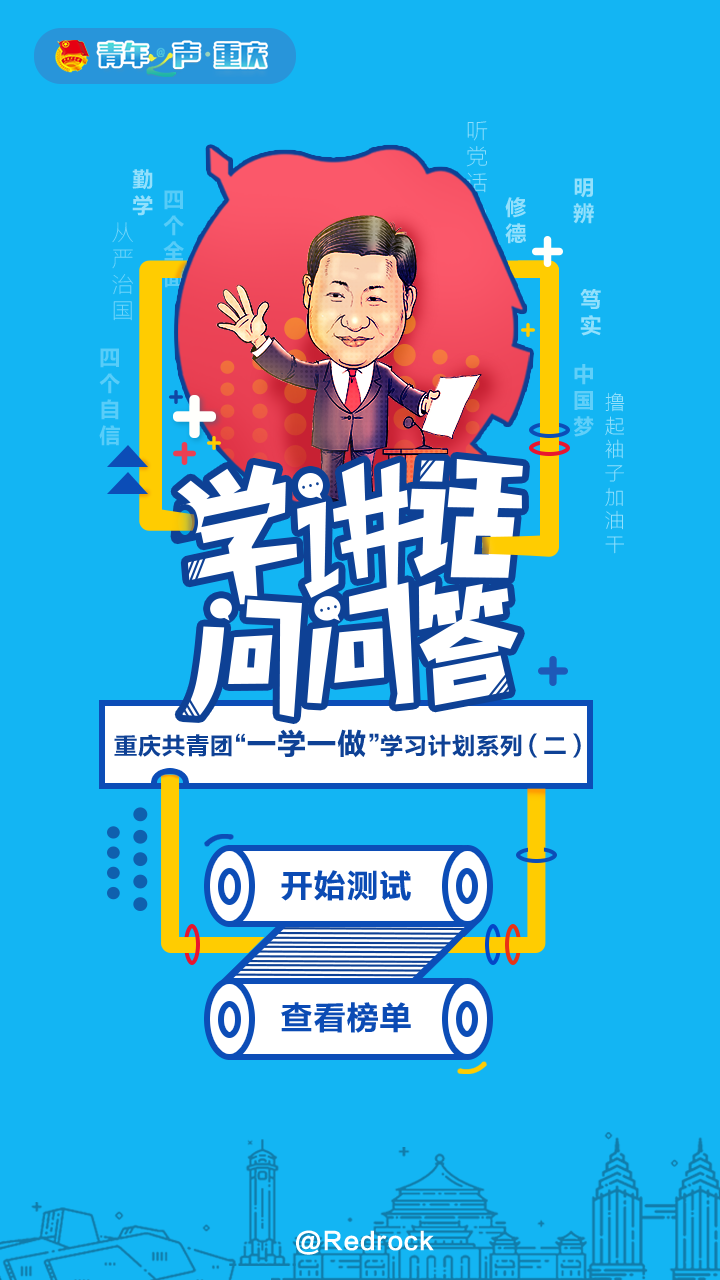
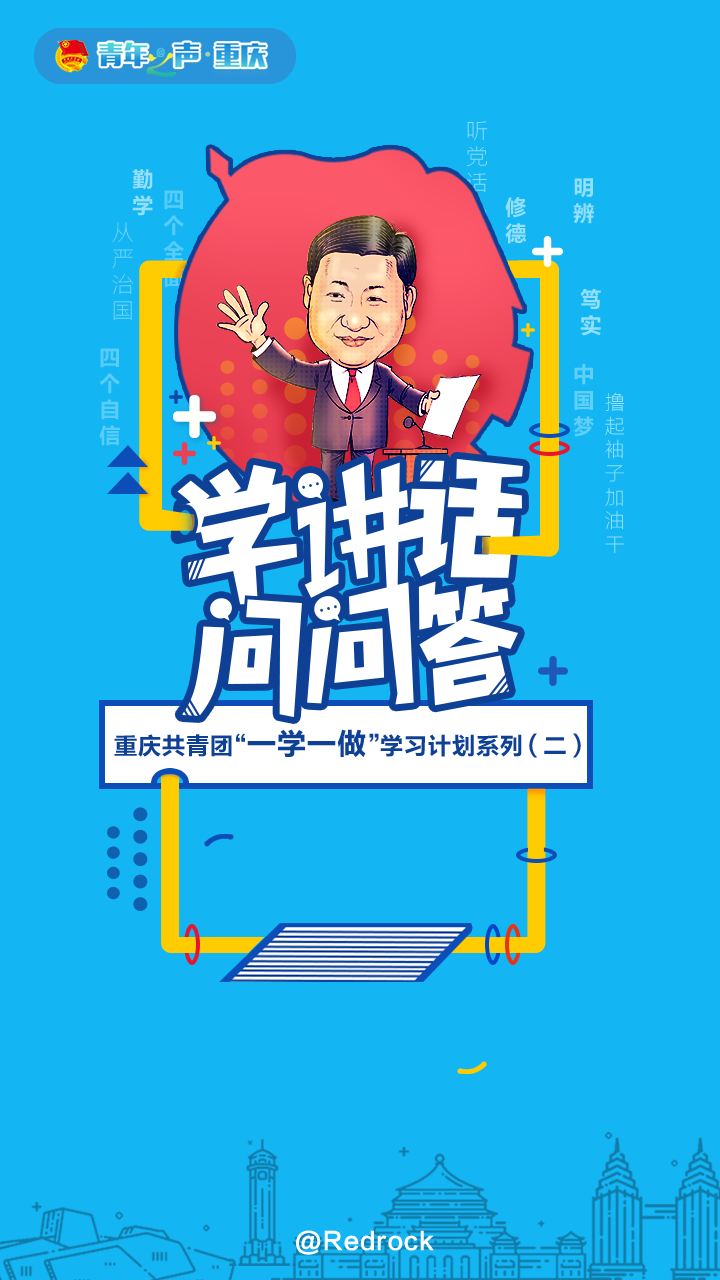
更改字体

Changed region(s): [[0.275, 0.6562, 0.7028, 0.8438]]

diff --git a/Application/Home/View/Index/index.html b/Application/Home/View/Index/index.html
@@ -10,6 +10,7 @@
             html {
                 width: 100%;
                 height: 100%;
+                font-family: "Helvetica Neue", Helvetica, Arial, "PingFang SC", "Hiragino Sans GB", "Heiti SC", "Microsoft YaHei", "WenQuanYi Micro Hei", sans-serif;
             }
 
             body {
@@ -26,23 +27,27 @@
                 background-repeat: no-repeat;
                 background-image: url(__PUBLIC__/images/index-bg.png);
             }
+
             .start {
-                width: 40.3%;
-                height: 6.5%;
-                position: absolute;
                 top: 66%;
                 left: 28.3%;
-                background-color: red;
-                display: none;
-            }
-            .rank {
-                width: 40.3%;
+                width: 40.5%;
                 height: 6.5%;
+                display: none;
                 position: absolute;
+                background-size: 100% 100%;
+                background-image: url(__PUBLIC__/images/start-test-bg.png);
+            }
+
+            .rank {
                 top: 76.5%;
                 left: 28.3%;
-                background-color: red;
+                width: 40.5%;
+                height: 6.5%;
                 display: none;
+                position: absolute;
+                background-size: 100% 100%;
+                background-image: url(__PUBLIC__/images/view-rank-bg.png);
             }
         </style>
     </head>

diff --git a/Public/css/ques.css b/Public/css/ques.css
@@ -1,6 +1,7 @@
 
 html {
     height: 100%;
+    font-family: "Helvetica Neue", Helvetica, Arial, "PingFang SC", "Hiragino Sans GB", "Heiti SC", "Microsoft YaHei", "WenQuanYi Micro Hei", sans-serif;
 }
 
 body {
